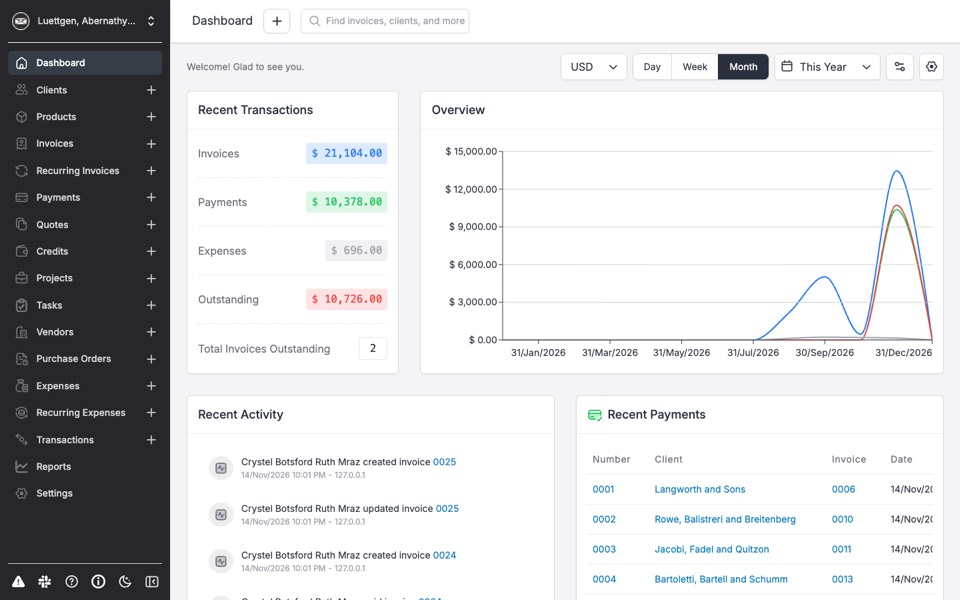
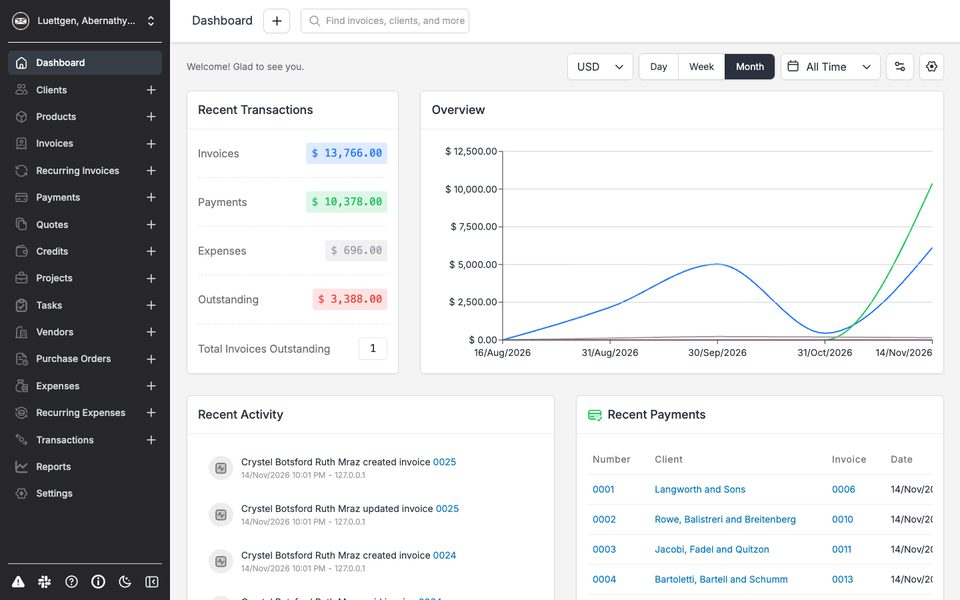
Landing page: React screenshot on All Time, whose chart fills its width

diff --git a/docs/web-deploy.md b/docs/web-deploy.md
@@ -56,7 +56,7 @@ The old page registered `flutter_service_worker.js?v=<server version>` at the si
 - **Store links name each store's live listing.** Until a store's v2 goes live they are v1's (`com.invoiceninja.app`, the v1 App Store and Microsoft IDs); switch each with that store's launch (`docs/going-live.md`).
 - **What the visitor arrived with goes on to the app they pick:** a sign-up link's `?signup=true` and `?rc=` (React's `#/register?rc=`, this app's query), UTM tags, and an old bookmark's `#/route` (to this app only, whose router maps admin-portal's routes; React's differ). The backend renders the page ahead of its `?login` / `?signup` redirect so the query is still there.
 - **Every link opens in a new tab.** "Last used" is remembered in `localStorage` (`invoiceninja.landing.last`) when either web app is opened from the page; the page never redirects on its own. A "has moved" banner shows when the old app's `flutter.*` keys are in this origin's `localStorage`, and an "out of date" note when it runs as an installed app.
-- **The screenshots are hand-made.** The React one is the public demo (`react.invoicing.co/demo`) at 1440×900, scaled to 960×600, with the dashboard on This Year grouped by Month (the demo's data only spans its last few months, so a longer range or a weekly grouping leaves the chart mostly flat) and the pointer off the chart, so no tooltip shows. Retaken 2026-11-15.
+- **The screenshots are hand-made.** The React one is the public demo (`react.invoicing.co/demo`) at 1440×900, scaled to 960×600, with the dashboard on All Time grouped by Month (the demo's data only spans its last few months, so All Time is the range that fills the chart's width; a fixed range or a weekly grouping leaves it mostly flat) and the pointer off the chart, so no tooltip shows. Retaken 2026-11-15.
 
 ## Web sign-in
 
